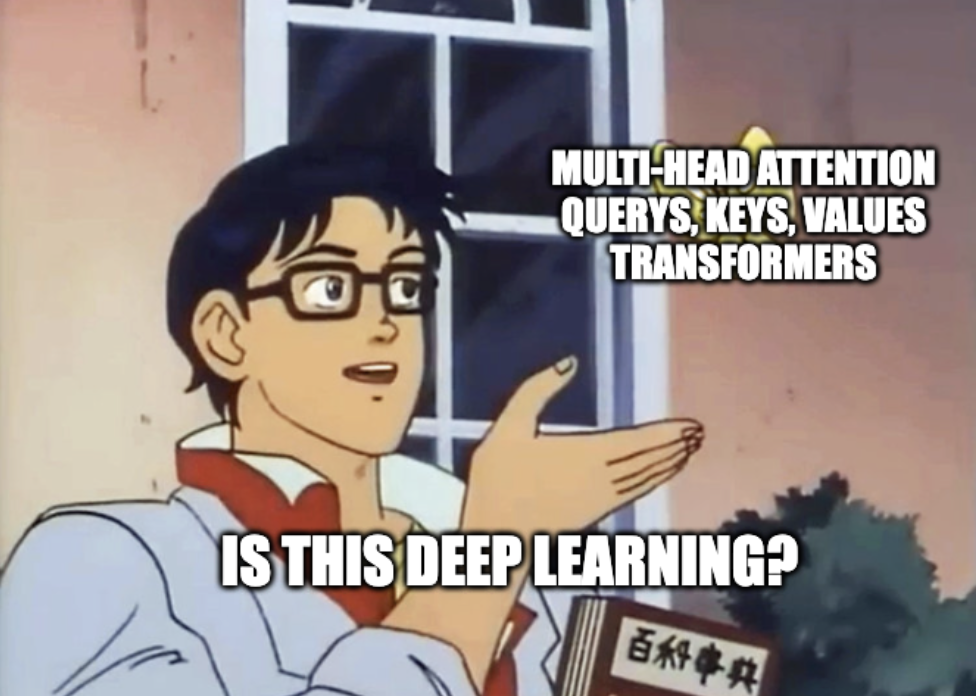
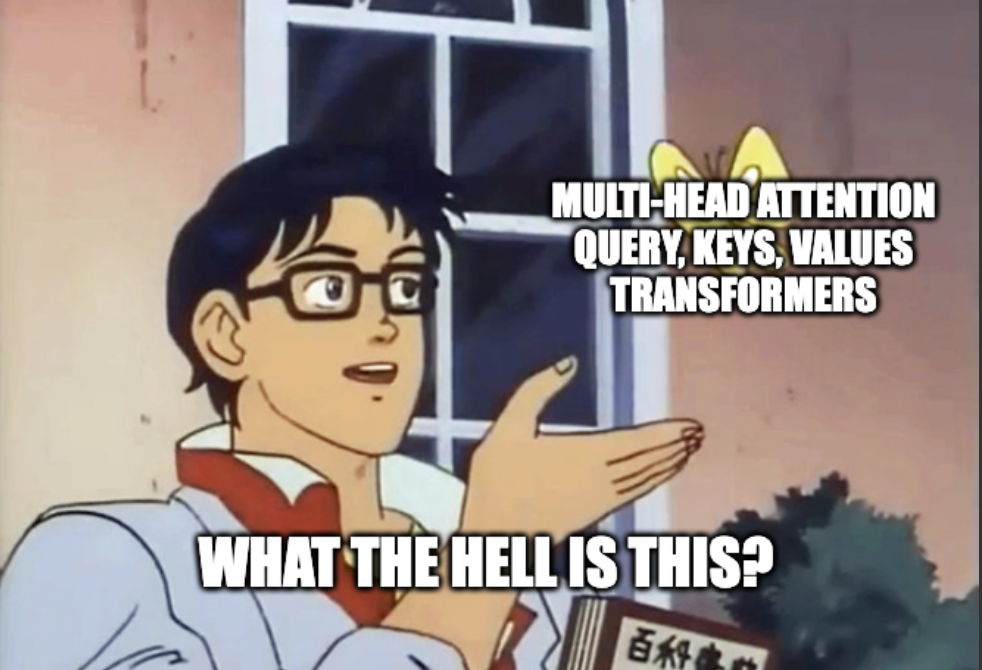
content done

diff --git a/1/content.md b/1/content.md
@@ -6,14 +6,14 @@ latex: true
 
 # attention mechanisms: an informal approach
 
-![what the hell does even mean?](../assets/1/meme.png)
+![meme](../assets/1/meme.png)
 
 
 if you are even vaguely familiar with the term "ChatGPT" chances are that you might have come across a term called **attention**. 
 
 attention is what powers "transformers" - the seemingly complex architecture behind large language models (LLMs) like ChatGPT.
 
-this blog attempts to take you through an informal approach of answering the question, "what the hell does attention even mean?"
+this blog attempts to take you through an informal approach of answering the question, "what does attention even mean?"
 
 
 # some background first
@@ -30,12 +30,15 @@ a transformer has two main parts:
 
 ### encoder's role
 now, given some input *words* making an input sentence, the encoder is responsible for converting the plain-text input words into **tokens** where each token has a unique id associated with it AND is "represented" by a *high-dimensional vector*.
+
 <br>
+
 > wait, high-dimensional vector? why?
 
 this is because, neural networks and hence machines do not understand text as us humans do, so we need to convert our text into something which neural networks understand very well that is... YES! a vector!
 
 <br>
+
 these vector "representations" capture a lot of information about the input words such as:
 
 1. the word's semantic information
@@ -94,7 +97,7 @@ a diagram of the original transformer architecture will be helpful here:
 
 ![transformer architecture](../assets/1/transformer.png)
 
-have a good look at this... it is taken from the original [Attention is all you need](https://arxiv.org/abs/1706.03762) paper which first introduced the concept of transformers.
+have a good look at this... it is taken from the paper [Attention is all you need](https://arxiv.org/abs/1706.03762) which first introduced the concept of transformers.
 
 the diagram is a bit cryptic but the block on the left with two sub-parts is the encoder and the block on the right with three sub-parts is the decoder.
 
@@ -110,9 +113,6 @@ this helps your human (if you are one) brain to form complex relationships betwe
 the intuition behind **attention** in transformers is analogous to this.
 
 what attention aims to do is: it calculates a "score" which we can call the **usefulness score** for each token with other tokens of two different sentences OR even the same sentence (self-attention).
-
-_insert manim of attention between two sentences and same sentence_
-
 
 after this, the initial vector representations of the tokens are transformed into final vector representations based on the **usefulness score**, hoping that it captures the usefulness information i.e. which tokens to "attend" to and which tokens are more "useful".
 
@@ -140,3 +140,299 @@ _insert manim of same sentence attention_
 _insert manim of different sentence attention_
 
 # queries, keys, and values
+
+ok, now that i have loosely explained the intuition behind attention, let's think of how this thing is calculated.
+
+imagine you had two vector "representations" or vectors in short:
+
+<div style="text-align: center">
+<img src="https://latex.codecogs.com/svg.image?\large&space;\mathbf{U}=[u_1,\space&space;u_2,\space...,\space&space;u_n]" title="\mathbf{U}=[u_1,\space u_2,\space...,\space u_n]" />
+</div>
+
+and,
+
+<div style="text-align: center">
+<img src="https://latex.codecogs.com/svg.image?\large&space;\mathbf{V}=[v_1,\space&space;v_2,\space...,\space&space;v_n]" title="\mathbf{V}=[v_1,\space v_2,\space...,\space v_n]" />
+</div>
+
+in some n-dimensional vector space, then we can calculate the similarity between the two vectors using their [dot product](https://en.wikipedia.org/wiki/Dot_product) which is:
+
+<div style="text-align: center">
+<img src="https://latex.codecogs.com/svg.image?\large&space;\mathbf{U}\cdot\mathbf{V}=u_1v_1&plus;u_2v_2&plus;...&plus;u_nv_n" title="\mathbf{U}\cdot\mathbf{V}=u_1v_1+u_2v_2+...+u_nv_n" />
+</div>
+
+since we represent tokens (or words) using their vector representations, the value of the dot product will tell us how similar those tokens are in their _embeddings vector space_.
+
+the original paper [Attention is all you need](https://arxiv.org/abs/1706.03762) converts each token's vector representation into three more vectors called **Query**, **Key**, and **Value**.
+
+each token has its query vector, key vector, and value vector
+
+<br>
+
+> but why do they add three more vectors? why query, key, and value? why not something else?
+
+good! you are asking the right questions. Essentially, the usage of Query, Key, and Value and hence attention, is hugely analogous to **retrieval systems**. And the calculation of **attention** is done using these three vectors.
+
+okay...
+
+consider we have a database having some keys and their corresponding values. Imagine the database to represent some knowledge where the keys are "topics" and the values are the "information" we need about the corresponding "topic". 
+
+<div style="text-align: center">
+<img src="https://latex.codecogs.com/svg.image?\large&space;\begin{Bmatrix}K_1,&V_1\\K_2,&V_2\\K_3,&V_3\\...,&...\\\end{Bmatrix}" title="\begin{Bmatrix}K_1,&V_1\\K_2,&V_2\\K_3,&V_3\\...,&...\\\end{Bmatrix}" />
+</div>
+
+
+Now you as a user wants to query the database to fetch some important "information" (**V**) based on your "query" (**Q**).
+
+in order to do that, we need to find which "topics" (**K**) in the database are similar to your "query" (**Q**)
+
+once we find the "topics" (**K**) that are similar to your "query" (**Q**) we can sort them according to their relevance and then process their corresponding "information" (**V**).
+
+<br>
+
+> oh! i see a pattern here... so if i have two sentences and i want to find the "usefulness" or "attention" of one word in the first sentence with respect to the words of the second sentence, we can create a "query" out of that one word. We can also create "keys" and "values" for every other word in the second sentence, in order to find the usefulness, which is very similar to retrieval systems! damn.
+
+bingo! i presume that's why the original transformers paper introduce the three vectors Query, Key, and Value for each token.
+
+<br>
+
+consider we have a sentence made up of tokens:
+
+<div style="text-align: center">
+<img src="https://latex.codecogs.com/svg.image?\large&space;&space;S=t_1,t_2,t_3...,t_n" title=" S=t_1,t_2,t_3...,t_n" />
+</div>
+
+<div style="text-align: center">
+<img src="https://latex.codecogs.com/svg.image?\large&space;t_i=[u_1,u_2,...,u_m]\;\;\;\;i\in[1,2,...,n]" title="t_i=[u_1,u_2,...,u_m]\;\;\;\;i\in[1,2,...,n]" />
+</div>
+
+where each token is represented using a vector in some m-dimensional vector space. From the vector representation of each token, we create the query, key, and value vector:
+
+<div style="text-align: center">
+<img src="https://latex.codecogs.com/svg.image?\large&space;Q_i=[q_1,q_2,...,q_{k}],\;\;K_i=[k_1,k_2,...,k_k],\;\;V_i=[v_1,v_2,...,v_{v}]" title="Q_i=[q_1,q_2,...,q_{k}],\;\;K_i=[k_1,k_2,...,k_k],\;\;V_i=[v_1,v_2,...,v_{v}]" />
+</div>
+
+<br>
+
+note: here the dimension of the query and the key vectors is equal to some value _k_, while the dimension of the value vector is equal to some value _v_.
+
+the imaginary tokens database for the second sentence (having `z` tokens) now looks like:
+
+<div style="text-align: center">
+<img src="https://latex.codecogs.com/svg.image?\large&space;\begin{Bmatrix}t'_1\to[k_{11},k_{12},...,k_{1k}],&[v_{11},v_{12},...,v_{1v}]\\t'_2\to[k_{21},k_{22},...,k_{2k}],&[v_{21},v_{22},...,v_{2v}]\\...,&...\\t'_z\to[k_{z1},k_{z2},...,k_{zk}],&[v_{z1},v_{z2},...,v_{zv}]\\\end{Bmatrix}" title="\begin{Bmatrix}t'_1\to[k_{11},k_{12},...,k_{1k}],&[v_{11},v_{12},...,v_{1v}]\\t'_2\to[k_{21},k_{22},...,k_{2k}],&[v_{21},v_{22},...,v_{2v}]\\...,&...\\t'_z\to[k_{z1},k_{z2},...,k_{zk}],&[v_{z1},v_{z2},...,v_{zv}]\\\end{Bmatrix}" />
+</div>
+
+if we want to calculate the attention of the first token of the first sentence with respect to all the tokens of the second sentence, we create the query **Q** for the first token as:
+
+<div style="text-align: center">
+<img src="https://latex.codecogs.com/svg.image?\large&space;t_1\to&space;Q_1=[q_1,q_2,...,q_{k}]" title="t_1\to Q_1=[q_1,q_2,...,q_{k}]" />
+</div>
+
+<br>
+
+now, from the above intuition of retrieval systems:
+
+1. **find similarity between Query and Keys**
+    since the query and keys are vectors, we can find the similarity using their corresponding dot products to know which "topics" (keys) are more similar to our query. This gives us:
+
+    <br>
+
+    <div style="text-align: center">
+    <img src="https://latex.codecogs.com/svg.image?\large&space;\begin{Bmatrix}Q_1\cdot[k_{11},k_{12},...,k_{1k}]=x_1,&[v_{11},v_{12},...,v_{1v}]\\Q_1\cdot[k_{21},k_{22},...,k_{2k}]=x_2,&[v_{21},v_{22},...,v_{2v}]\\...,&...\\Q_1\cdot[k_{z1},k_{z2},...,k_{zk}]=x_z,&[v_{z1},v_{z2},...,v_{zv}]\\\end{Bmatrix}" title="\begin{Bmatrix}Q_1\cdot[k_{11},k_{12},...,k_{1k}]=x_1,&[v_{11},v_{12},...,v_{1v}]\\Q_1\cdot[k_{21},k_{22},...,k_{2k}]=x_2,&[v_{21},v_{22},...,v_{2v}]\\...,&...\\Q_1\cdot[k_{z1},k_{z2},...,k_{zk}]=x_z,&[v_{z1},v_{z2},...,v_{zv}]\\\end{Bmatrix}" />
+    </div>
+
+    <br>
+
+2. **"sort" the Keys**
+    after calculating the dot product between the query and the keys, we get the vector of "similarity scores" between the different keys and our query:
+
+    <div style="text-align: center">
+    <img src="https://latex.codecogs.com/svg.image?\large&space;\mathbf{x}=[x_1,x_2,...,x_n]" title="\mathbf{x}=[x_1,x_2,...,x_n]" />
+    </div>
+
+    in order to "sort" them i.e. to find the weightage of which keys are the most useful, we can pass the above vector to a [softmax function](https://en.wikipedia.org/wiki/Softmax_function):
+
+    <br>
+
+    <div style="text-align: center">
+    <img src="https://latex.codecogs.com/svg.image?\large&space;\text{softmax}(\mathbf{x})=\text{softmax}(Q_i\cdot&space;K_j)" title="\text{softmax}(\mathbf{x})=\text{softmax}(Q_i\cdot K_j)" />
+    </div>
+
+    <div style="text-align: center">
+    <img src="https://latex.codecogs.com/svg.image?i\in[1,2,...,n],\;\;j\in[1,2,...,z]" title="i\in[1,2,...,n],\;\;j\in[1,2,...,z]" />
+    </div>
+
+    <br>
+
+3. **get final representations using Values**
+    we now have the weightage of which keys (tokens) are the most useful in the second sentence with respect to our query. To get the "attention" of our query, we can simply multiply the above softmax output (which is a vector of dimension `z`) with the `z` values.
+
+    thus:
+
+    <br>
+
+    <div style="text-align: center">
+    <img src="https://latex.codecogs.com/svg.image?\text{attention}_1=\text{softmax}(\mathbf{x})V=[y_1,y_2,...,y_z]\begin{bmatrix}v_{11}&v_{12}&...&v_{1v}\\v_{21}&v_{22}&...&v_{2v}\\\vdots&\vdots&\ddots&\vdots\\v_{z1}&v_{z2}&...&v_{zv}\\\end{bmatrix}\to&space;shape(1,v)" title="\textsl{attention}_i=\text{softmax}(\mathbf{x})V=[y_1,y_2,...,y_z]\begin{bmatrix}v_{11}&v_{12}&...&v_{1v}\\v_{21}&v_{22}&...&v_{2v}\\...&...&\ddots&...\\v_{z1}&v_{z2}&...&v_{zv}\\\end{bmatrix}\to shape(1,v)" />
+    </div>
+
+    here the vector `[y1, y2, ..., yz]` is the result of the softmax function over the vector **x**.
+
+    this gives us the "attention": vector representation for the query (first token) with respect to the tokens in the second sentence!
+
+<br>
+
+now that we have an understanding of attention for one token with respect to a different sentence or even the same sentence, let me give the formal definition of attention from the original paper [Attention is all you need](https://arxiv.org/abs/1706.03762):
+
+> An attention function can be described as mapping a query and a set of key-value pairs to an output, where the query, keys, values, and output are all vectors. The output is computed as a weighted sum of the values, where the weight assigned to each value is computed by a compatibility function of the query with the corresponding key.
+
+think about it... so much information condensed in this one single definition!
+
+<br>
+
+if we want to calculate attention of all tokens of one sentence with respect to all tokens of the second sentence, we can replace the query, key, and value vectors with **matrices**:
+
+<br>
+
+<div style="text-align: center">
+<img src="https://latex.codecogs.com/svg.image?\begin{matrix}t_1\\t_2\\\vdots\\\end{matrix}\to\mathbf{Q}\begin{bmatrix}q_{11}&q_{12}&...&q_{1k}\\q_{21}&q_{22}&...&q_{2k}\\\vdots&\vdots&\ddots&\vdots\\q_{n1}&q_{n2}&...&q_{nk}\\\end{bmatrix},\;\;\mathbf{K}\begin{bmatrix}k_{11}&k_{12}&...&k_{1k}\\k_{21}&k_{22}&...&k_{2k}\\\vdots&\vdots&\ddots&\vdots\\k_{n1}&k_{n2}&...&k_{nk}\\\end{bmatrix},\;\;\mathbf{V}\begin{bmatrix}v_{11}&v_{12}&...&v_{1v}\\v_{21}&v_{22}&...&v_{2v}\\\vdots&\vdots&\ddots&\vdots\\v_{n1}&v_{n2}&...&v_{nv}\\\end{bmatrix}" title="\begin{matrix}t_1\\t_2\\\vdots\\t_n\end{matrix}\to\mathbf{Q}\begin{bmatrix}q_{11}&q_{12}&...&q_{1k}\\q_{21}&q_{22}&...&q_{2k}\\\vdots&\vdots&\ddots&\vdots\\q_{n1}&q_{n2}&...&q_{nk}\\\end{bmatrix},\;\;\mathbf{K}\begin{bmatrix}k_{11}&k_{12}&...&k_{1k}\\k_{21}&k_{22}&...&k_{2k}\\\vdots&\vdots&\ddots&\vdots\\k_{n1}&k_{n2}&...&k_{nk}\\\end{bmatrix},\;\;\mathbf{V}\begin{bmatrix}v_{11}&v_{12}&...&v_{1v}\\v_{21}&v_{22}&...&v_{2v}\\\vdots&\vdots&\ddots&\vdots\\v_{n1}&v_{n2}&...&v_{nv}\\\end{bmatrix}" />
+</div>
+
+<br>
+
+we can now express dot products between the queries and the keys in the form of matrix multiplication; product of the query matrix with the transpose of the key matrix.
+
+the calculation of attention then becomes:
+
+<div style="text-align: center">
+<img src="https://latex.codecogs.com/svg.image?\text{attention}=\text{softmax}(\mathbf{Q}\;\mathbf{K^T})\;\mathbf{V}" title="\text{self-attention}=\text{softmax}(\mathbf{Q}\;\mathbf{K^T})\;\mathbf{V}" />
+</div>
+
+with appropriate matrices for query, keys, and values.
+
+however, the paper also introduces a "scaling term" in order to keep the [problem of exploding/vanishing gradients](https://www.comet.com/site/blog/vanishing-exploding-gradients-in-deep-neural-networks/) during backpropagation under control. The scaling term is taken to be equal to the square root of the dimension of query and key vectors i.e. the square root of value `k`.
+
+thus our final equation for "self-attention" becomes:
+
+<div style="text-align: center">
+<img src="https://latex.codecogs.com/svg.image?\text{attention}=\text{softmax}\left(\frac{\mathbf{Q\;K^T}}{\sqrt{k}}\right)\;\mathbf{V}" title="\text{self-attention}=\text{softmax}\left(\frac{\mathbf{Q\;K^T}}{\sqrt{k}}\right)\;\mathbf{V}" />
+</div>
+
+phew! that was a lot to uncover.
+
+here's how the shapes of the matrices fit in the above equation:
+
+```python
+# consider self-attention, ignore scaling term
+# initial vector U of size (n, m)
+
+Q = (n, k)
+K = (n, k)
+V = (n, v)
+
+Q * K.T = (n, k) * (k, m) = (n, m)
+
+softmax(Q * K.T) = (n, m)
+
+softmax(Q * K.T) * V = (n, m) * (m, v) = (n, v)
+
+# final representations have the shape (n, v)
+```
+
+finally, the below figure will help you visualize how attention is calculated:
+
+![scaled dot product attention](../assets/1/attention.png)
+
+
+# masked self-attention
+
+once you understand what self-attention is, the concept of masked self-attention will feel like a walk in the park.
+
+basically...
+
+self-attention calculates the attention of a particular token with respect to all the other tokens (including itself) in the same sentence.
+
+masked self-attention, on the other hand, calculates the attention of a particular token with respect to all the tokens **preceding** it (including itself) in the same sentence. Which means, the tokens that come after that one particular token are "masked" i.e. the attention with them is not calculated.
+
+<br>
+
+> if i remember correctly, the encoder calculates self-attention and the decoder calculates masked self-attention right?
+
+yes, this is because the decoder is responsible for "predicting" which token **could** come next after encountering a particular token. Also, to limit the decoder to not foresee the future tokens already, it calculates masked self-attention rather than self-attention.
+
+
+# multi-head attention
+
+we discussed about the query, keys, and values vectors, but you might have a question about how do we convert our initial vector representations to these vectors.
+
+it's simple...
+
+we multiply the initial vector representations with weight matrices to get the query, key, and values vectors respectively. You can think of these weights as the weights of a simple feed-forward neural network layer (without adding any `bias`). So, in terms of pytorch:
+
+```python
+import torch.nn as nn
+
+# define the dimensions n, m, k, and v
+# initial vector of size (n, m)
+
+WQ = nn.Linear(m, k, bias = False)
+WK = nn.Linear(m, k, bias = False)
+WV = nn.Linear(m, v, bias = False)
+```
+
+in the previous sections, we calculated the attention of tokens with only one Query, and only one Key-Value pairs
+
+the authors of the original transformers paper proposed that we can have different **heads** of attention, where each head has its own Query, and Key-Value pairs which are derived from the original query, and key-value matrices.
+
+so in this method, the authors multiply the original query, and key-value pairs again with `h` different weight matrices `WQ'`, `WK'`, and `WV'` with appropriate dimensions to get `h` different Query, and Key-Value pairs.
+
+adding more **heads** can be beneficial if we want to find which tokens to attend in different representation subspaces. As described in the paper:
+
+> Multi-head attention allows the model to jointly attend to information from different representation subspaces at different positions.
+
+the attention (as explained above) is calculated for these `h` different queries, keys and value the output of which, is then concatenated in the end to form a matrix of shape `(n, h * v)`.
+
+the output of the concatenation is also passed through a weight matrix `WO` of shape `(h * v, m)` to get the final output vector representations.
+
+so the calculation for multi-head attention is:
+
+<div style="text-align: center">
+<img src="https://latex.codecogs.com/svg.image?\text{multihead}(Q,K,V)=\text{Concat}(head_1,...,head_h)W^O&space;" title="\text{multihead}(Q,K,V)=\text{Concat}(head_1,...,head_h)W^O " />
+</div>
+
+where,
+
+<div style="text-align: center">
+<img src="https://latex.codecogs.com/svg.image?head_i=\text{attention}(QW_i^Q,KW_i^K,VW_i^V)" title="head_i=\text{attention}(QW_i^Q,KW_i^K,VW_i^V)" />
+</div>
+
+here the term "attention" is the scaled dot-product attention which i explained above and the weight matrices `WQ`, `WK`, and `WV` are the learnable parameters for each head.
+
+the resulting output vector representations captures the multi-head attention information within them which are then processed further.
+
+finally, the figure below visualizes what multi-head attention does:
+
+![multihead attention](../assets/1/multi-head.png)
+
+
+# conclusion
+
+*exhales*
+
+okay... that was a lot to take but hopefully now you have some intuition behind the concept of attention mechanisms in transformers which powers the large language models (LLMs) like ChatGPT.
+
+do note that, there can be several forms of attention which might provide "better" results such as [sliding window attention](https://paperswithcode.com/method/sliding-window-attention), but my intention behind this blog post was to approach the concept of transformers attention is a very informal yet intuitive manner.
+
+thank you for reading this anon, see you very soon!
+
+
+# references
+
+links of the materials that helped me A LOT in order to write this blog post:
+
+- [Attention is all you need](https://arxiv.org/abs/1706.03762) paper
+
+- [stats stackexchange thread](https://stats.stackexchange.com/questions/421935/what-exactly-are-keys-queries-and-values-in-attention-mechanisms)
+
+- [LLaMA explained: KV-Cache, Rotary Positional Embedding, RMS Norm, Grouped Query Attention, SwiGLU](https://youtu.be/Mn_9W1nCFLo?si=qsLQPIbW25Og_uMU) YouTube video
+
+- [insert link to my brain lol]
